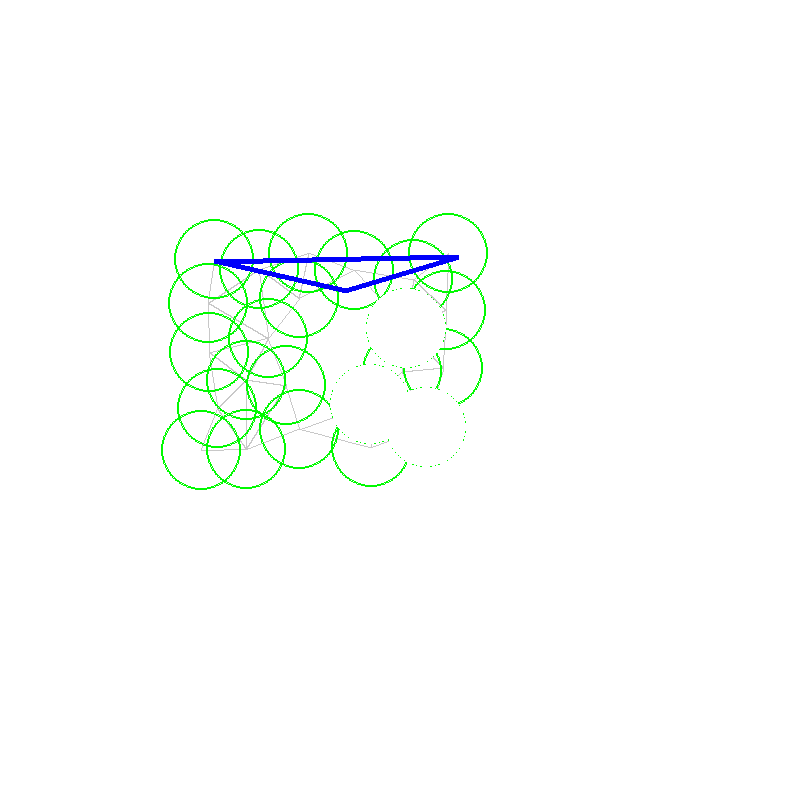
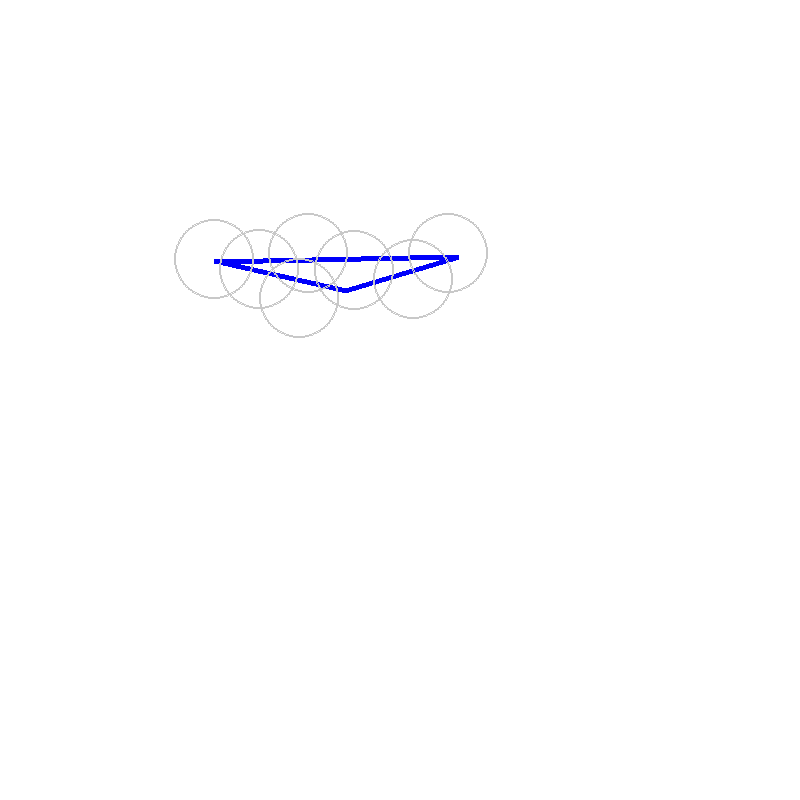
greedy csp

diff --git a/alphashape/Contraction.py b/alphashape/Contraction.py
@@ -89,19 +89,17 @@ def betti_number(triangle_set, edge_list, edge_tri_dict):
 				matrix[i, j] = 1;
 		i += 1
 
-	print "---- Betti Number ----"
+	#print "---- Betti Number ----"
 	#print "matrix:\n{0}".format(matrix);
 
-	print "Triangles: {0}".format(len(triangle_list));
-	print "edges: {0}".format(len(edge_list));
-	print "vertices: {0}".format(len(vertices));
+	#print "Triangles: {0}".format(len(triangle_list));
+	#print "edges: {0}".format(len(edge_list));
+	#print "vertices: {0}".format(len(vertices));
 	rank = GF2_matrix_rank(matrix, len(edge_list), len(triangle_set));
 	return len(edge_list) - len(vertices) + 1 - rank;
 
-
-class Component:
-	'''Define a 'component' as a set of spheres, such that there is no 1-d holes.
-	meaning the first betti number is 0 '''
+class SphereUnion:
+	'''A sphere union is a set of intersecting spheres'''
 	def __init__(self, init_ball = None):
 		'''A component should at least have one ball'''
 		self.spheres = {}
@@ -116,6 +114,10 @@ class Component:
 	def betti_number(self, edge_tri_dict):
 		return betti_number(self.triangle_set, self.edge_set.keys(), edge_tri_dict);
 
+	def render(self, surf, color):
+		for sphere in self.get_spheres():
+			pygame.draw.circle( surf, color, (int(sphere.center[0]), int(sphere.center[1])), int(sphere.radius), 2 );
+		pygame.display.update();
 
 	def __new_tirsNedges__(self, sphere, edge_tri_dict, sphere_tri_dict):
 		new_triangles = {};
@@ -149,7 +151,7 @@ class Component:
 
 		del self.spheres[sphere];
 
-		print "Add {0} new triangles".format(len(new_triangles))
+		#print "Add {0} new triangles".format(len(new_triangles))
 		return new_edges, new_triangles;
 
 	def merge(self, other, edge_tri_dict, sphere_tri_dict):
@@ -163,7 +165,7 @@ class Component:
 			total_edge_set = dict(total_edge_set.items() + new_edges.items())
 			total_triangle_set = dict( total_triangle_set.items() + new_tris.items() )
 
-		new_comp = Component();
+		new_comp = SphereUnion();
 		new_comp.spheres = total_spheres;
 		new_comp.edge_set = total_edge_set;
 		new_comp.triangle_set = total_triangle_set;
@@ -222,6 +224,76 @@ class Component:
 					time.sleep(0.3);
 		return betti;
 
+	def add_sphere_betti(self, sphere, old_betti, edge_tri_dict, sphere_tri_dict, surf = None):
+		'''returns the 1st betti number if adding a sphere'''
+		if self.spheres.has_key(sphere):
+			return False;
+			#raise Exception('You got a bug, the sphere is already in the component');
+		self.spheres[sphere] = 1;
+
+		new_triangles = {};
+		new_edges = {};
+
+		candidate_triangles = sphere_tri_dict[sphere];
+		i = 1;
+		for tri in candidate_triangles:
+			if new_triangles.has_key(tri) and self.triangle_set.has_key(tri):
+				continue;
+			# all vertices in the triangle are in the component;
+			valid = True;
+			for s in tri.spheres:
+				if not self.spheres.has_key(s):
+					valid = False;
+			if not valid:
+				continue;
+			new_triangles[tri] = 1;
+			#draw_triangle(tri, surf, (0,250,0));
+			#pygame.display.update();
+
+			# add edges of the triangle to our component
+			for v1, v2 in tri.edges():
+				if (not self.edge_set.has_key((v1, v2)) and not self.edge_set.has_key((v2, v1))) and ( not new_edges.has_key( (v2, v1)) and not new_edges.has_key( (v2, v1) ) ):
+					new_edges[ (v1, v2) ] = 1;
+					#pygame.draw.line( surf, (255,0,0), (int(v1.center[0]),int(v1.center[1])), (int(v2.center[0]),int(v2.center[1])), 2 )
+					#pygame.display.update();
+
+		# Get new edges that might be added to the component
+		for ball in self.spheres.keys(): 			# This step could be slow!!! (If the component has too many spheres already)
+			if ball.intersects(sphere) and not new_edges.has_key((ball, sphere)) and not new_edges.has_key((sphere,ball)):
+				if edge_tri_dict.has_key( (ball, sphere) ) or edge_tri_dict.has_key((sphere, ball)):
+					new_edges[(ball, sphere)] = 1;
+					#pygame.draw.line( surf, (255,0,0), (int(ball.center[0]),int(ball.center[1])), (int(sphere.center[0]),int(sphere.center[1])), 2 )
+					#pygame.display.update();
+		
+
+		# Now we have distinct new edges and new triangles while add a new sphere
+		# Add them up.
+		total_triangle_set = dict(self.triangle_set.items() + new_triangles.items());
+		total_edges 	   = dict(self.edge_set.items() + new_edges.items());
+		# Time to determine the betti number.
+		#print "Total Triangle Set:\n {0}".format(total_triangle_set);
+		#print "Total Edge Set: {0}".format(total_edges);
+		#print "Total spheres:\n{0}".format( self.spheres );
+		betti 	   		   = betti_number(total_triangle_set, total_edges.keys(), edge_tri_dict);
+		
+		#print "Betti number adding a sphere: {0}".format(betti);
+
+		if betti <= old_betti:				# If it will not increase the 1-st betti number
+			self.spheres[sphere] = 1;		# add the sphere to the component
+			self.triangle_set = total_triangle_set;# update triangles in the component
+			self.edge_set     = total_edges;	# update edges in the component.
+			return True;					# Tell caller the sphere can be added to the component
+		del self.spheres[sphere];
+		return False;						# Tell caller the sphere cannot be added to the component	
+
+class Component(SphereUnion):
+	'''Define a 'component' as a set of spheres, such that there is no 1-d holes.
+	meaning the first betti number is 0 '''
+	def __init__(self, init_ball = None):
+		'''A component should at least have one ball'''
+		SphereUnion.__init__(self, init_ball=None);
+
+
 	def add_sphere(self, sphere, edge_tri_dict, sphere_tri_dict, surf):
 		'''determine if we can add a sphere to the component without increasing the 1-st betti number'''
 		if self.spheres.has_key(sphere):
@@ -274,7 +346,7 @@ class Component:
 		#print "Total spheres:\n{0}".format( self.spheres );
 		betti 	   		   = betti_number(total_triangle_set, total_edges.keys(), edge_tri_dict);
 		
-		print betti
+		print "Betti number after adding the sphere: {0}".format(betti)
 
 		if betti == 0:						# If it will not increase the 1-st betti number
 			self.spheres[sphere] = 1;		# add the sphere to the component
@@ -325,7 +397,6 @@ class Contraction:
 		component = Component(sphere);					# Start from the initial sphere
 		used_spheres[sphere] = 1;
 		print '---------------------------------------------'
-		print sphere
 		find_new_sphere = True;							# Mark if we keep finding new spheres
 
 		while find_new_sphere:							# Loop until we can't find any new spheres to add

diff --git a/alphashape/Homotopy.py b/alphashape/Homotopy.py
@@ -1,0 +1,100 @@
+
+"""
+This class is about determine two path homotopy classes using Constraint Satisfication Programming techniques.+
+"""
+
+__author__ = 'Yinan Zhang'
+__revision__ = '$Revision$'
+
+
+import sys, os, math, time, pygame, time
+sys.path.append('../basics/math')
+sys.path.append('../basics/algorithm')
+
+from numpy.linalg 	import matrix_rank
+from hyper_geometry import *
+from l1_geometry	import *
+from Triangle		import *
+from Contraction 	import *
+from priority_queue import *
+
+class HomotopyCSP:
+	'''Constraint Satisfication Programming on homotopy of sphere unions'''
+	def __init__(self, spheres, graph, triangle_set, edge_tri_dict, sphere_tri_dict):
+		self.spheres 		= spheres
+		self.graph 			= graph
+		self.triangle_set 	= triangle_set
+		self.edge_tri_dict 	= edge_tri_dict
+		self.sphere_tri_dict = sphere_tri_dict
+		pass;
+
+	def neighbor_spheres( self, union, used_spheres ):
+		for sphere in union.get_spheres():
+			used_spheres[sphere] = 1;
+
+		neighbors = [];							# neighbor spheres of the union.
+		for sphere in union.get_spheres():				# loop over each component sphere
+			curr_neighbors = self.graph[sphere];# find its neighbors in the graph
+
+			for curr_neighbor in curr_neighbors:
+				if not used_spheres.has_key(curr_neighbor): # such that each neighbor is not used
+					neighbors.append(curr_neighbor);
+		return neighbors;
+
+	def greedy( self, union1, union2, surface = None ):
+
+		def dist(sphere, union):
+			'''min_dist from a sphere to spheres on a union'''
+			min_dist = 100000000;
+			for s in union.get_spheres():
+				dist = (s.center - sphere.center).r();
+				if dist <= min_dist:
+					min_dist = dist;
+			return min_dist;
+
+		union1.render( surface, (200,200,200) );	union2.render( surface, (200,200,200) );
+
+		used_spheres = {};
+		for sphere in union1.get_spheres():
+			used_spheres[sphere] = 1;
+
+		for sphere in union2.get_spheres():
+			used_spheres[sphere] = 1;
+		
+		union = union1.merge(union2, self.edge_tri_dict, self.sphere_tri_dict);
+		neighbors = self.neighbor_spheres(union1, used_spheres)
+		heuristic = PriorityQueue();
+
+		if len(neighbors) == 0:
+			pass;   #### Think about this
+		for neighbor in neighbors:
+			heuristic.push( neighbor, dist(neighbor, union1) + dist(neighbor, union1) );
+
+		while not heuristic.isEmpty():
+			choice = heuristic.pop()
+			pygame.draw.circle( surface, (255,0,0), (int(choice.center[0]), int(choice.center[1])), int(choice.radius), 2 );
+			time.sleep(1);
+			old_betti = union.betti_number(self.edge_tri_dict)
+			good = union.add_sphere_betti(choice, old_betti, self.edge_tri_dict, self.sphere_tri_dict);
+			if good == None:
+				print "Same homotopy class";
+				return;
+			if good:
+				union.render( surface, (200,200,200) );
+				time.sleep(1);
+				used_spheres[choice] = 1;
+				temp = SphereUnion( choice );
+				new_neighbors = self.neighbor_spheres(temp, used_spheres)
+				for neighbor in new_neighbors:
+					heuristic.push( neighbor, dist(neighbor, union1) + dist(neighbor, union1) );
+					break;
+			else:
+				heuristic.push( choice, dist(choice, union1) + dist(choice, union1) );
+			
+		betti = union.betti_number(self.edge_tri_dict);
+		if betti != 0:
+			print "Different Homotopy Classes"
+		else:
+			print "Same homotopy class"
+
+

diff --git a/topology/Contraction_test.py b/topology/Contraction_test.py
@@ -9,22 +9,23 @@ from l1_geometry		import *
 from hyper_graph		import *
 from Triangle 			import *
 from geometry 			import *
+from Homotopy 			import *
 
 def contains(s, pnt):
 	return (s.center[0]-pnt[0])**2 + (s.center[1]-pnt[1])**2 < s.radius**2;
 
 def get_path_nodes(path, spheres):
 	i = 0;
-	sphlist = [];
+	sphlist = {};
 	for i in range(len(path)-1):
 		dir = v2(path[i+1][0]-path[i][0], path[i+1][1]-path[i][1]) / 50.0;
 		for j in range(1, 51):
 			pnt = v2(path[i][0], path[i][1]) + j*dir;
 			for s in spheres:
 				if contains(s, pnt):
-					sphlist.append( s );
+					sphlist[s] = 1;
 					
-	return sphlist;
+	return sphlist.keys();
 
 def load_data(filename, mode):
 	'''load spheres information from file'''
@@ -75,8 +76,10 @@ def main():
 	print 'Start Loading'
 	sphere_list = load_data('../sampling/experiments/experiment.txt', 'L2');
 	print 'Start Rendering Spheres'
+	spheres = {}
 	for sphere in sphere_list:
-		pygame.draw.circle( DISPLAYSURF, (200, 200, 200), (int(sphere.center[0]), int(sphere.center[1])), int(sphere.radius), 1 );
+		spheres[sphere] = 1;
+		#pygame.draw.circle( DISPLAYSURF, (200, 200, 200), (int(sphere.center[0]), int(sphere.center[1])), int(sphere.radius), 1 );
 
 	pygame.display.update();
 
@@ -86,15 +89,15 @@ def main():
 
 	triangle_set, sphere_tri_dict, edge_tri_dict = triangulator.triangulate();
 
-	draw_triangles(DISPLAYSURF, triangle_set);
+	#draw_triangles(DISPLAYSURF, triangle_set);
 
 
 	##################################################
 	######        Contruct components
 	contractor = Contraction(sphere_list, DISPLAYSURF);
-	components = contractor.contract(triangle_set, edge_tri_dict, sphere_tri_dict);
+	#components = contractor.contract(triangle_set, edge_tri_dict, sphere_tri_dict);
 
-	print "Got {0} component(s)".format(len(components))
+	#print "Got {0} component(s)".format(len(components))
 	'''
 	i = 1;
 	for comp in components:
@@ -131,6 +134,7 @@ def main():
  
 	##################################################
 	######        determine path homotopy
+	'''
 	new_comp = components[0].merge(components[1],edge_tri_dict, sphere_tri_dict)
 
 	untouchable = {}
@@ -146,8 +150,29 @@ def main():
 		print "~~~~~~~~ Different Homotopy"
 
 	pygame.image.save(DISPLAYSURF, "homotopy.PNG")
+	'''
+
+	print untouchable1;
+	print untouchable2;
+
+	union1 = SphereUnion(untouchable1[0]);	untouchable1.remove(untouchable1[0]);
+	union2 = SphereUnion(untouchable2[0]);	untouchable2.remove(untouchable2[0]);
+	while len(untouchable1) != 0:
+		for sphere in untouchable1:
+			if union1.add_sphere_betti(sphere, 0, edge_tri_dict, sphere_tri_dict):
+				untouchable1.remove(sphere)
+
+	while len(untouchable2) != 0:
+		for sphere in untouchable2:
+			if union2.add_sphere_betti(sphere, 0, edge_tri_dict, sphere_tri_dict):
+				untouchable2.remove(sphere)
 
 
+	print len(union1.get_spheres()), len(untouchable1)
+
+	csp = HomotopyCSP(spheres, contractor.graph, triangle_set, edge_tri_dict, sphere_tri_dict);
+	csp.greedy( union1, union2, DISPLAYSURF );
+	pygame.image.save(DISPLAYSURF, "homotopy.PNG")
 
 if __name__ == '__main__':
 	main();

diff --git a/topology/experiment/connecting_components.py b/topology/experiment/connecting_components.py
@@ -9,6 +9,7 @@ from hyper_geometry 	import *
 from hyper_alpha_shape 	import *
 from l1_geometry 		import *
 from hyper_graph 		import *
+from Homotopy 			import *
 
 def load_data(filename, mode):
 	'''load spheres information from file'''

diff --git a/basics/algorithm/priority_queue.py b/basics/algorithm/priority_queue.py
@@ -51,4 +51,5 @@ print pq.pop()
 print pq.pop()
 print pq.pop()
 print pq.pop()
-print pq.pop()'''
+print pq.pop()
+'''
